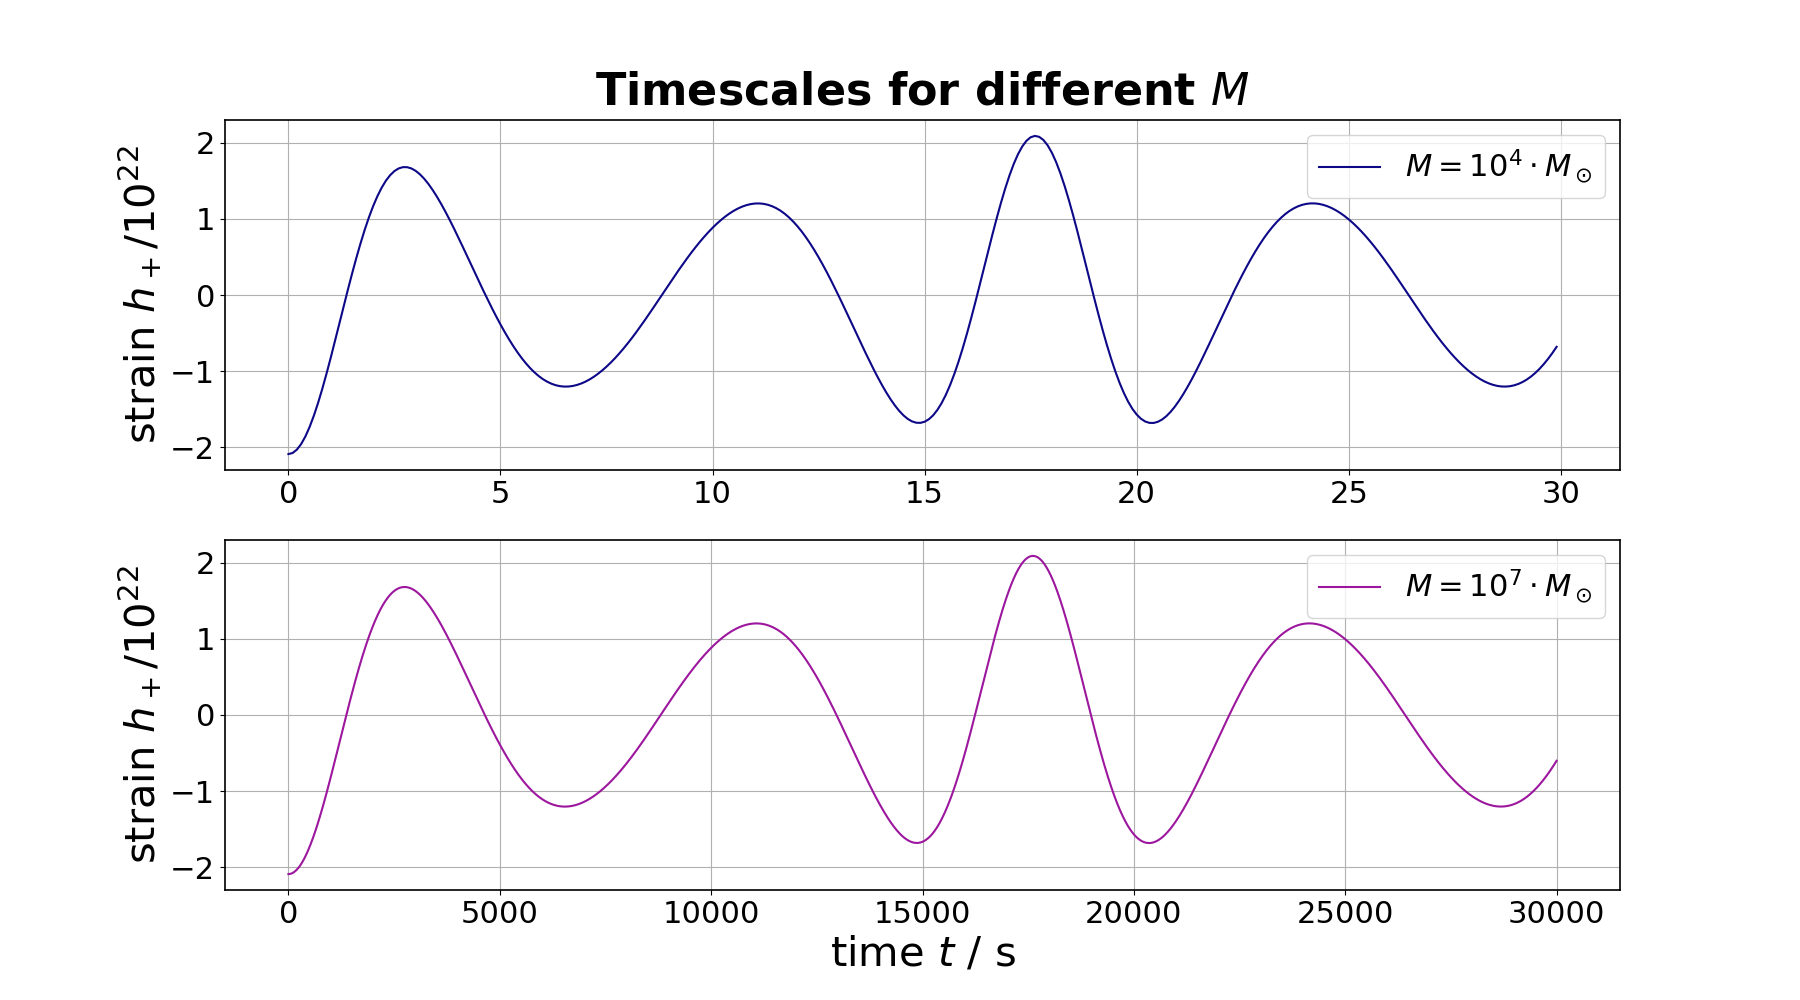
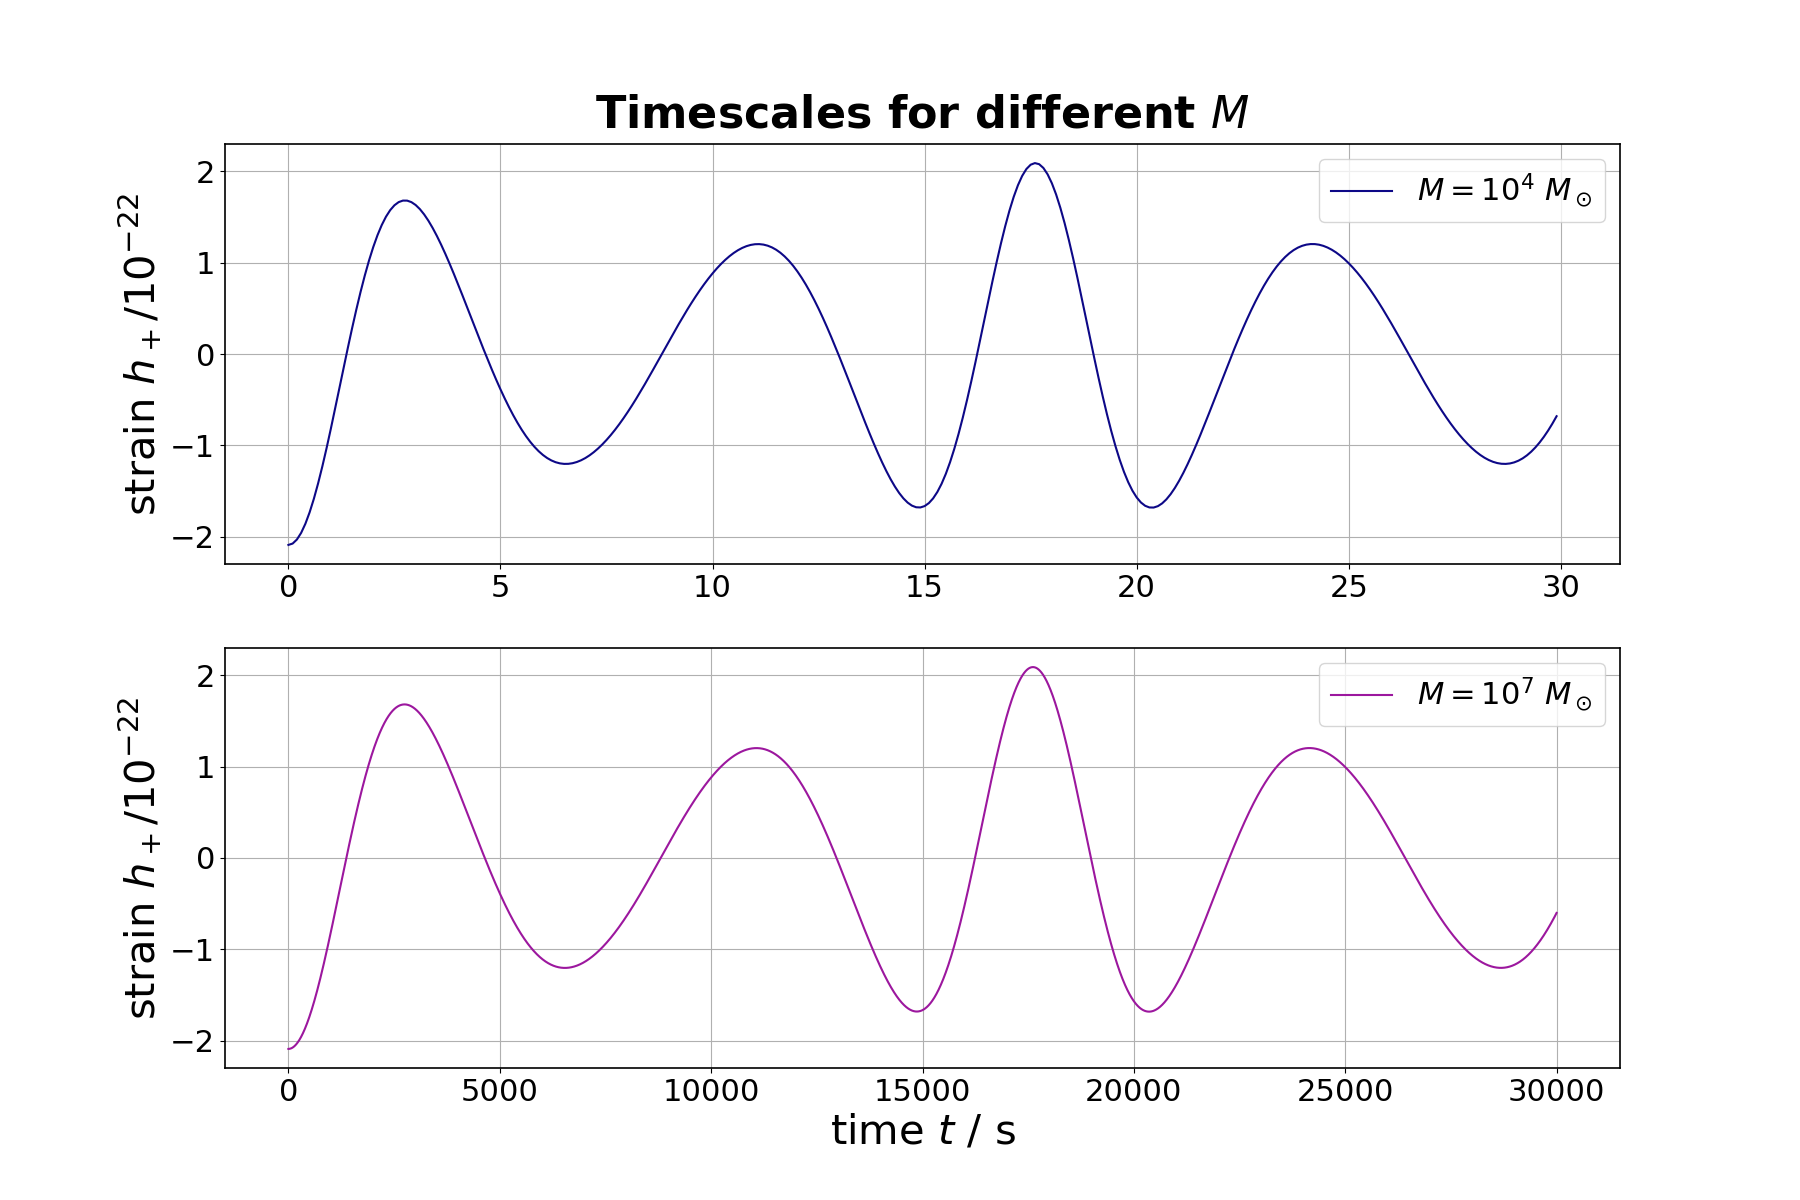
mu und masse plots

diff --git a/Variation_parameters/Mu/large_times.py b/Variation_parameters/Mu/large_times.py
@@ -88,10 +88,10 @@ few = FastSchwarzschildEccentricFlux(
 gen_wave = GenerateEMRIWaveform("Pn5AAKWaveform")
 
 # parameters
-T = 0.001  # years
-dt = 0.1  # seconds
+T = 3  # years
+dt = 20  # seconds
 
-# M = 1e7  # solar mass
+M = 1e7  # solar mass
 mu = 10  # solar mass
 
 dist = 1.0  # distance in Gpc
@@ -122,52 +122,24 @@ cmap = cm.get_cmap('plasma')
 
 fig, ax = plt.subplots(figsize = (20, 9))
 
+lab = ["$\mu = 10^0 ~ M_\odot$", "$\mu = 10^1 ~ M_\odot$", "$\mu = 10^2 ~ M_\odot$", "$\mu = 10^3 ~ M_\odot$"]
 
-for M in range(4, 8):
-    h = gen_wave(10 ** M, mu, a, p0, e0, x0, dist, qS, phiS, qK, phiK, Phi_phi0, Phi_theta0, Phi_r0, T=T, dt=dt)
+for i in range(0, 4):
+    h = gen_wave(M, 10 ** i, a, p0, e0, x0, dist, qS, phiS, qK, phiK, Phi_phi0, Phi_theta0, Phi_r0, T=T, dt=dt)
 
-    col = cmap((M - 4)/ 3)
+    color = cmap(1 - i / 3)
 
-    t = np.arange(len(h.real)) * dt
-    ax.plot(t, h.real * 1E22, color = col)
+    t = np.arange(len(h.real)) * dt / (365 * 24 * 3600)
 
-ax.set_xlabel("time $t /$s")
-ax.set_ylabel("strain $h_+ / 10^{-22}$")
+    ax.plot(t[-2000:], h.real[-2000:] * 1E22 / 10 ** i, color = color, label = lab[i])
+
+ax.legend()
+ax.set_xlabel("time $t /$a")
+ax.set_ylabel("strain $h_+ / \mu \cdot M_\odot / 10^{-22}$")
+
 ax.grid()
+ax.set_title(r"GW for different $\bf \mu$", y = 1.02)
 
-cbar = plt.colorbar(cm.ScalarMappable(cmap=cmap), ax=ax, label = "mass $M / M_\odot$", ticks = np.arange(0, 1.1, 1/3))
-cbar.ax.set_yticklabels(["$10^4$", "$10^5$", "$10^6$", "$10^7$"])
-
-ax.set_title("Mass comparison", y = 1.02)
-plt.savefig("Variation_parameters/Masse/Massen_vgl.png")
-
-
-# fig, ax = plt.subplots(2, 1, figsize = (18, 12))
-
-# h0 = gen_wave(10 ** 4, mu, a, p0, e0, x0, dist, qS, phiS, qK, phiK, Phi_phi0, Phi_theta0, Phi_r0, T=T, dt=dt)
-# h1 = gen_wave(10 ** 7, mu, a, p0, e0, x0, dist, qS, phiS, qK, phiK, Phi_phi0, Phi_theta0, Phi_r0, T=T, dt=dt)
-
-# t0 = np.arange(len(h0.real)) * dt
-# t1 = np.arange(len(h1.real)) * dt
-
-# ax[0].plot(t0[: 300], h0.real[: 300] * 1E22, color = cmap(0), label = "$M = 10^4 ~ M_\odot $")
-# ax[1].plot(t1[: 300000], h1.real[: 300000] * 1E22, color = cmap(1 / 3), label = "$M = 10^7 ~ M_\odot $")
-
-# ax[0].set_ylabel("strain $h_+ / 10^{-22}$")
-# ax[1].set_ylabel("strain $h_+ / 10^{-22}$")
-
-# ax[0].set_title("Timescales for different $M$", y = 1.02)
-# ax[1].set_xlabel("time $t$ / s")
-
-
-# ax[0].legend()
-# ax[1].legend()
-
-# ax[0].grid()
-# ax[1].grid()
-
-# plt.savefig("Variation_parameters/Masse/Massen_timescales.png")
-
-
+plt.savefig("Variation_parameters/Mu/large_times.png")
 
 plt.show()

diff --git a/Variation_parameters/Mu/mu.py b/Variation_parameters/Mu/mu.py
@@ -122,6 +122,8 @@ cmap = cm.get_cmap('plasma')
 
 fig, ax = plt.subplots(figsize = (20, 9))
 
+lab = ["$\mu = 10^0 ~ M_\odot$", "$\mu = 10^1 ~ M_\odot$", "$\mu = 10^2 ~ M_\odot$", "$\mu = 10^3 ~ M_\odot$"]
+
 for i in range(0, 4):
     h = gen_wave(M, 10 ** i, a, p0, e0, x0, dist, qS, phiS, qK, phiK, Phi_phi0, Phi_theta0, Phi_r0, T=T, dt=dt)
 
@@ -129,7 +131,15 @@ for i in range(0, 4):
 
     t = np.arange(len(h.real)) * dt
 
-    ax.plot(t, h.real * 1E22 / 10 ** i, color = color)
+    ax.plot(t, h.real * 1E22 / 10 ** i, color = color, label = lab[i])
+
+ax.legend()
+ax.set_xlabel("time $t /$s")
+ax.set_ylabel("strain $h_+ / 10^{-22}$")
 
 ax.grid()
+ax.set_title(r"GW for different $\bf \mu$", y = 1.02)
+
+plt.savefig("Variation_parameters/Mu/mu_vgl.png")
+
 plt.show()
